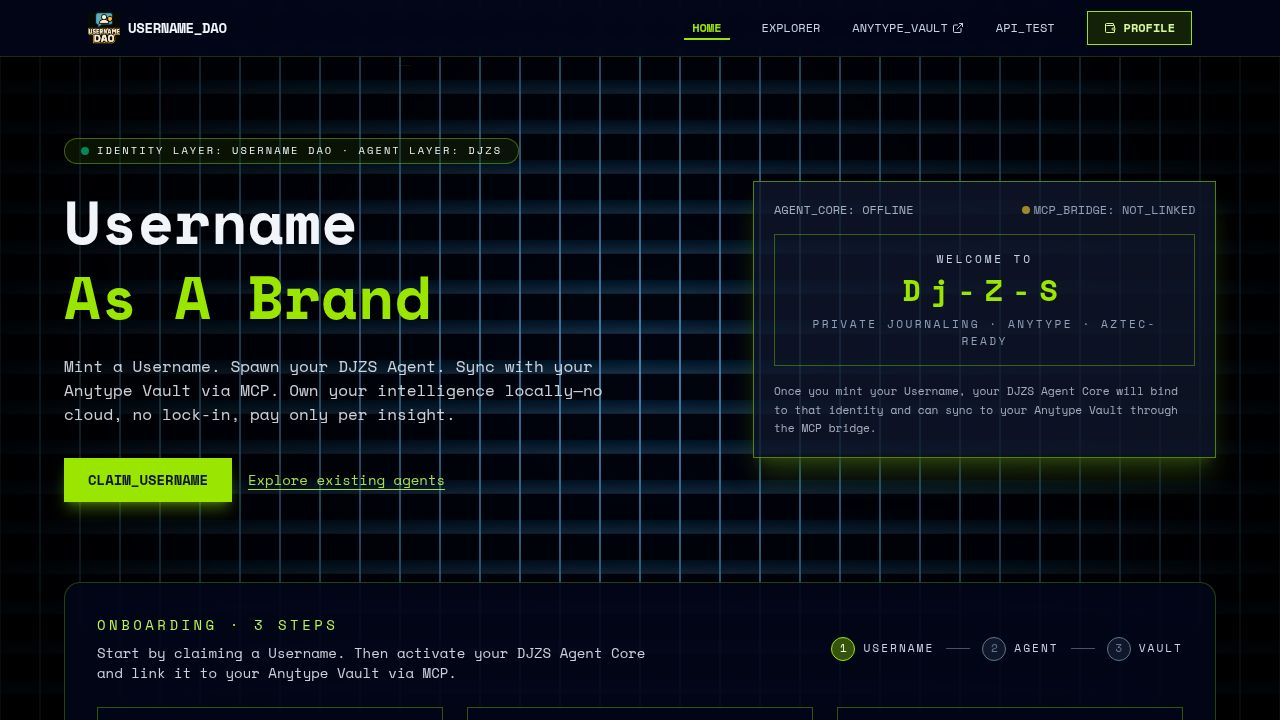
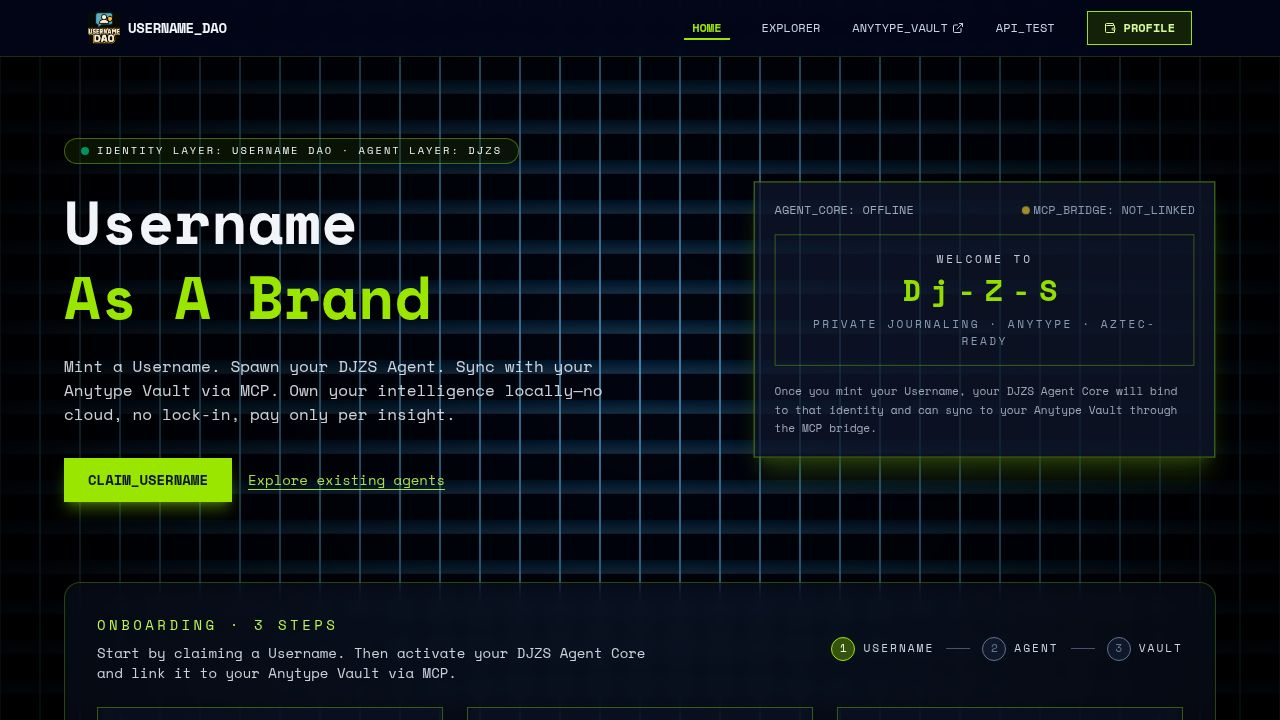
Make interface cards transparent to show background animations
Update various card components in `home.tsx` to use `bg-slate-900/XX` and `backdrop-blur-md` for a glass-like transparency effect, allowing background animations to be visible.

Replit-Commit-Author: Agent
Replit-Commit-Session-Id: e3778cfd-1189-46d8-89d5-c624abb23925
Replit-Commit-Checkpoint-Type: full_checkpoint
Replit-Commit-Event-Id: e5fd43cf-acf0-48bf-b1bf-f6965edff383
Replit-Commit-Screenshot-Url: https://storage.googleapis.com/screenshot-production-us-central1/ea5d0ede-c0b4-4e6e-8aab-622338eae763/e3778cfd-1189-46d8-89d5-c624abb23925/yktOX9X
Replit-Helium-Checkpoint-Created: true

Changed region(s): [[0.5938, 0.2444, 0.9375, 0.3056], [0.625, 0.5194, 0.6875, 0.6111], [0.8438, 0.5194, 0.9062, 0.5806]]

diff --git a/client/src/pages/home.tsx b/client/src/pages/home.tsx
@@ -288,7 +288,7 @@ const OnboardingSection: React.FC<OnboardingProps> = ({
 }) => {
   return (
     <section className="px-6 pb-14 lg:px-10">
-      <div className="max-w-6xl mx-auto border border-lime-500/30 rounded-2xl bg-slate-950/90 p-6 md:p-8 space-y-6">
+      <div className="max-w-6xl mx-auto border border-lime-500/30 rounded-2xl bg-slate-900/40 backdrop-blur-md p-6 md:p-8 space-y-6">
         <div className="flex flex-col md:flex-row md:items-center md:justify-between gap-4">
           <div>
             <h2 className="text-sm font-mono tracking-[0.25em] text-lime-300 uppercase">
@@ -304,7 +304,7 @@ const OnboardingSection: React.FC<OnboardingProps> = ({
 
         <div className="grid gap-6 md:grid-cols-3">
           <motion.div 
-            className="border border-lime-500/40 rounded-xl bg-slate-950/90 p-4 space-y-3"
+            className="border border-lime-500/40 rounded-xl bg-slate-900/30 backdrop-blur-sm p-4 space-y-3"
             whileHover={{ scale: 1.02 }}
           >
             <div className="text-xs font-mono tracking-[0.25em] text-slate-300 uppercase">
@@ -352,7 +352,7 @@ const OnboardingSection: React.FC<OnboardingProps> = ({
           </motion.div>
 
           <motion.div 
-            className="border border-lime-500/40 rounded-xl bg-slate-950/90 p-4 space-y-3"
+            className="border border-lime-500/40 rounded-xl bg-slate-900/30 backdrop-blur-sm p-4 space-y-3"
             whileHover={{ scale: 1.02 }}
           >
             <div className="text-xs font-mono tracking-[0.25em] text-slate-300 uppercase">
@@ -380,7 +380,7 @@ const OnboardingSection: React.FC<OnboardingProps> = ({
           </motion.div>
 
           <motion.div 
-            className="border border-lime-500/40 rounded-xl bg-slate-950/90 p-4 space-y-3"
+            className="border border-lime-500/40 rounded-xl bg-slate-900/30 backdrop-blur-sm p-4 space-y-3"
             whileHover={{ scale: 1.02 }}
           >
             <div className="text-xs font-mono tracking-[0.25em] text-slate-300 uppercase">
@@ -532,7 +532,7 @@ const AgentConsoleSection: React.FC<AgentConsoleProps> = ({
                   INPUT DIRECTIVE
                 </span>
                 <textarea
-                  className="w-full rounded-md border border-lime-500/40 bg-slate-950/70 p-3 text-sm text-slate-50 placeholder:text-slate-500 focus:outline-none focus:ring-2 focus:ring-lime-400/70"
+                  className="w-full rounded-md border border-lime-500/40 bg-slate-900/30 backdrop-blur-sm p-3 text-sm text-slate-50 placeholder:text-slate-500 focus:outline-none focus:ring-2 focus:ring-lime-400/70"
                   rows={6}
                   placeholder="Ask a question, write a journal reflection, or request research for this Zone…"
                   value={directive}
@@ -561,7 +561,7 @@ const AgentConsoleSection: React.FC<AgentConsoleProps> = ({
             </div>
 
             <div className="space-y-6">
-              <div className="rounded-lg border border-lime-500/40 bg-slate-950/80 p-4">
+              <div className="rounded-lg border border-lime-500/40 bg-slate-900/30 backdrop-blur-sm p-4">
                 <span className="text-xs font-mono tracking-[0.25em] text-slate-300 uppercase">
                   AGENT REPLY
                 </span>
@@ -575,7 +575,7 @@ const AgentConsoleSection: React.FC<AgentConsoleProps> = ({
                 )}
               </div>
 
-              <div className="rounded-lg border border-lime-500/30 bg-slate-950/60 p-4 space-y-2">
+              <div className="rounded-lg border border-lime-500/30 bg-slate-900/30 backdrop-blur-sm p-4 space-y-2">
                 <span className="text-xs font-mono tracking-[0.25em] text-slate-300 uppercase">
                   AGENT METADATA
                 </span>
@@ -615,10 +615,10 @@ const ZoneSelector: React.FC<ZoneSelectorProps> = ({ selected, onSelect }) => {
           <button
             key={zone.code}
             onClick={() => onSelect(zone)}
-            className={`p-2 rounded-md border text-center transition ${
+            className={`p-2 rounded-md border text-center transition backdrop-blur-sm ${
               selected.code === zone.code
-                ? "border-lime-400 bg-lime-950/80 text-lime-100"
-                : "border-lime-500/30 bg-slate-950/60 text-slate-300 hover:border-lime-400/60"
+                ? "border-lime-400 bg-lime-900/50 text-lime-100"
+                : "border-lime-500/30 bg-slate-900/30 text-slate-300 hover:border-lime-400/60"
             }`}
             title={zone.description}
             data-testid={`button-zone-${zone.code}`}
@@ -648,10 +648,10 @@ const ModeSelector: React.FC<ModeSelectorProps> = ({ mode, setMode }) => {
           <button
             key={m.id}
             onClick={() => setMode(m.id)}
-            className={`px-3 py-1.5 rounded-md border text-xs font-mono transition ${
+            className={`px-3 py-1.5 rounded-md border text-xs font-mono transition backdrop-blur-sm ${
               mode === m.id
-                ? "border-lime-400 bg-lime-950/80 text-lime-100"
-                : "border-lime-500/30 bg-slate-950/60 text-slate-300 hover:border-lime-400/60"
+                ? "border-lime-400 bg-lime-900/50 text-lime-100"
+                : "border-lime-500/30 bg-slate-900/30 text-slate-300 hover:border-lime-400/60"
             }`}
             title={m.description}
             data-testid={`button-mode-${m.id}`}
@@ -690,7 +690,7 @@ const SystemArchitectureSection: React.FC = () => {
               whileInView={{ opacity: 1, y: 0 }}
               viewport={{ once: true }}
               transition={{ delay: idx * 0.1 }}
-              className="border border-lime-500/30 rounded-lg bg-slate-950/80 p-4 space-y-2"
+              className="border border-lime-500/30 rounded-lg bg-slate-900/30 backdrop-blur-sm p-4 space-y-2"
             >
               <div className="flex items-center gap-2">
                 <div className="h-6 w-6 rounded-full border border-lime-400 bg-lime-950 flex items-center justify-center text-xs font-bold text-lime-300">
